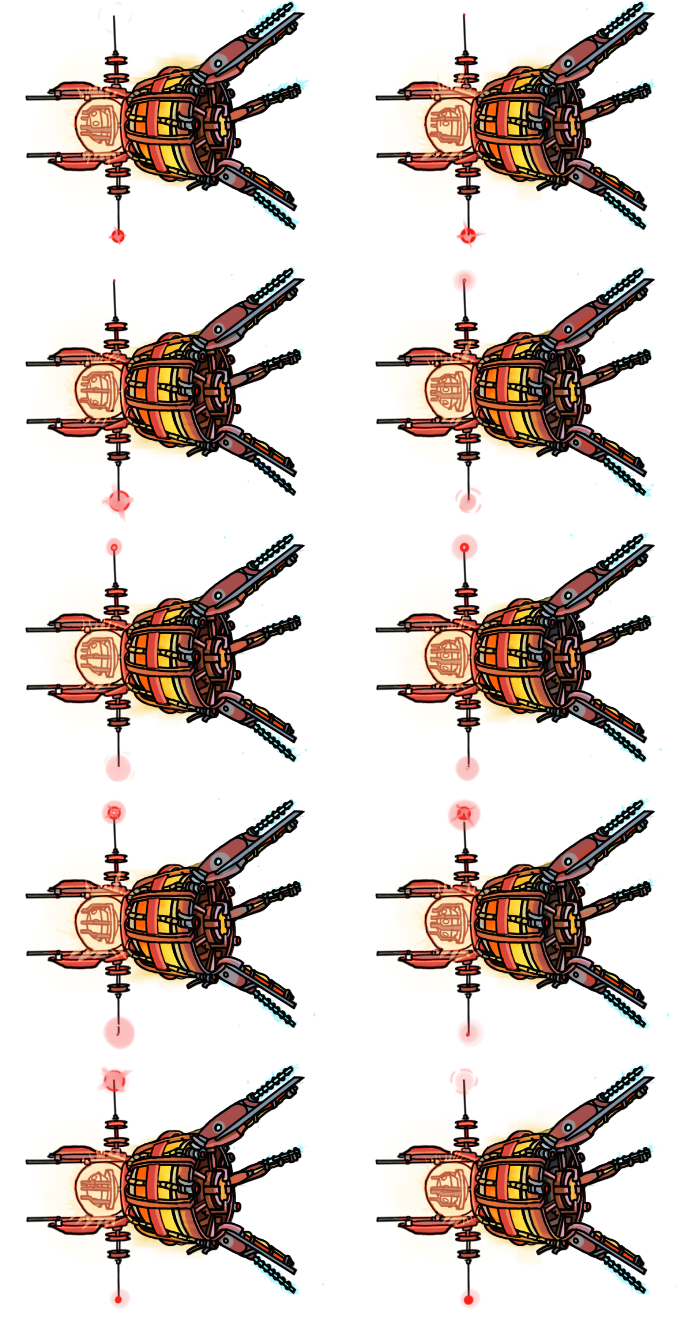
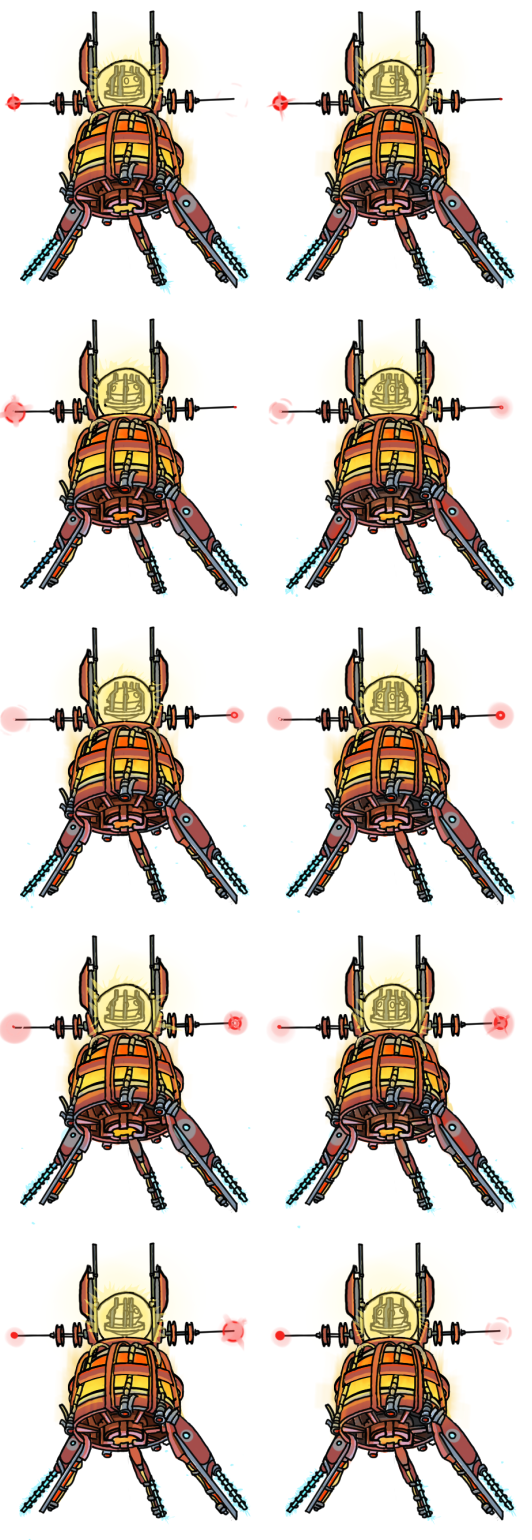
new drone

diff --git a/src/app/asteroid/asteroid-view/drone.ts b/src/app/asteroid/asteroid-view/drone.ts
@@ -2,8 +2,9 @@ import * as PIXI from 'pixi.js';
 import { getFramesFromSpriteSheet } from '../../loadAnimation';
 
 export class Drone {
-    drone: PIXI.Sprite;
     app: PIXI.Application;
+    public drone: PIXI.extras.AnimatedSprite;
+
     public laser: PIXI.extras.AnimatedSprite;
     laserFirstState: boolean;
     isBeginClick: boolean;
@@ -18,26 +19,34 @@ export class Drone {
     laserAnim_actif1: PIXI.extras.AnimatedSprite;
     laserAnim_actif2: PIXI.extras.AnimatedSprite;
     laserAnim_actif3: PIXI.extras.AnimatedSprite;
-    
+
     constructor(x: number , y: number, app: PIXI.Application) {
         this.app = app;
         this.isMining = true;
         this.delta = 0;
-        this.drone = PIXI.Sprite.fromImage('assets/drone.png');
-        this.drone.texture.baseTexture.mipmap = true;
+
+        // Drone 
+        this.drone = new PIXI.extras.AnimatedSprite(getFramesFromSpriteSheet(PIXI.loader.resources['drone1'].texture, 266, 308));
+        this.drone.gotoAndPlay(0);
+        this.drone.scale.set(x + 0.15, y + 0.15);
+        this.drone.loop = true;
         this.drone.anchor.set(0.5);
-        this.drone.scale.set(x, y);
+        this.drone.animationSpeed = 0.35;
+        this.drone.visible = true;
 
         this.drone.x = this.app.renderer.width / 2;
         this.drone.y = this.app.renderer.height / 2 - 150;
-        this.app.stage.addChild(this.drone);
 
         this.xBaseDrone = this.drone.x;
         this.yBaseDrone = this.drone.y;
 
+        this.app.stage.addChild(this.drone);
+
+        // LaserAnim 
         this.laserAnim = new PIXI.extras.AnimatedSprite(getFramesFromSpriteSheet(PIXI.loader.resources['laser'].texture, 946, 964));
         this.laserAnim.gotoAndPlay(0);
-        this.laserAnim.anchor.set(0.5, 0.04);
+        this.laserAnim.scale.set(0.60, 0.60);
+        this.laserAnim.anchor.set(0.54, -0.08);
         this.laserAnim.animationSpeed = 0.35;
         this.laserAnim.visible = true;
 
@@ -91,9 +100,10 @@ export class Drone {
         this.laserAnim_actif1 = new PIXI.extras.AnimatedSprite(getFramesFromSpriteSheet(PIXI.loader.resources['laserMinage1'].texture,
          946, 946));
         this.laserAnim_actif1.gotoAndPlay(0);
-        this.laserAnim_actif1.anchor.set(0.5, 0.04);
+        this.laserAnim_actif1.anchor.set(0.53, -0.09);
         this.laserAnim_actif1.animationSpeed = 0.30;
         this.laserAnim_actif1.position.set(3000, 3000);
+        this.laserAnim_actif1.scale.set(0.60, 0.60);
 
         this.laserAnim_actif1.visible = true;
         this.laserAnim_actif1.loop = false;
@@ -103,8 +113,9 @@ export class Drone {
         this.laserAnim_actif2 = new PIXI.extras.AnimatedSprite(getFramesFromSpriteSheet(PIXI.loader.resources['laserMinage2'].texture,
         946, 946));
         this.laserAnim_actif2.gotoAndPlay(0);
-        this.laserAnim_actif2.anchor.set(0.5, 0.04);
+        this.laserAnim_actif2.anchor.set(0.53, -0.09);
         this.laserAnim_actif2.position.set(3000, 3000);
+        this.laserAnim_actif2.scale.set(0.60, 0.60);
         this.laserAnim_actif2.animationSpeed = 0.35;
         this.laserAnim_actif2.visible = true;
 
@@ -113,7 +124,8 @@ export class Drone {
         this.laserAnim_actif3 = new PIXI.extras.AnimatedSprite(getFramesFromSpriteSheet(PIXI.loader.resources['laserMinage3'].texture,
         946, 946));
         this.laserAnim_actif3.gotoAndPlay(0);
-        this.laserAnim_actif3.anchor.set(0.5, 0.04);
+        this.laserAnim_actif3.anchor.set(0.53, -0.09);
+        this.laserAnim_actif3.scale.set(0.60, 0.60);
         this.laserAnim_actif3.animationSpeed = 0.25;
         this.laserAnim_actif3.position.set(3000, 3000);
         this.laserAnim_actif3.visible = true;
@@ -155,5 +167,14 @@ export class Drone {
         }
     }
 
+
+    changeSpriteDrone(lvl: number) {
+        const num = lvl <= 10 ? 1 : lvl <= 25 ? 2 : 3;
+        const temp = getFramesFromSpriteSheet(PIXI.loader.resources['drone' + num].texture, 266, 308);
+
+        for (let i = 0; i < this.drone.textures.length; i++) {
+            this.drone.textures[i] = temp[i];
+        }
+    }
 
 }

diff --git a/src/app/asteroid/asteroid-view/asteroid-view.component.ts b/src/app/asteroid/asteroid-view/asteroid-view.component.ts
@@ -10,8 +10,9 @@ import { OreInfoService } from '../ore-info-view/ore-info.service';
 import { Asteroid } from './asteroid';
 import { ParticleBase } from '../../shared/pixiVisual/particleBase';
 import { User } from '../../shared/user/user';
-import { UpgradeType } from '../../ship/upgrade-class/upgrade';
+import { UpgradeType, Upgrade } from '../../ship/upgrade-class/upgrade';
 import { getFramesFromSpriteSheet } from '../../loadAnimation';
+import { UpgradeLvls } from '../../ship/upgrade-list/upgrade-list.component';
 
 
 export enum KEY_CODE {
@@ -128,6 +129,7 @@ export class AsteroidViewComponent implements AfterViewInit {
       });
     }*/
 
+    this.drone.changeSpriteDrone(this.userS.currentUser.upgrades[UpgradeType.mineRate].lvl);
 
     this.asteroidSprite.eventOk = this.userS.currentUser.event;
     this.asteroidSprite.activEvent();
@@ -169,6 +171,10 @@ export class AsteroidViewComponent implements AfterViewInit {
       this.asteroidSprite.eventOk = user.event;
       this.asteroidSprite.activEvent();
       this.clickCapsule();
+    });
+
+    this.userS.upgradeSubject.subscribe((user: User) => {
+      this.drone.changeSpriteDrone(user.upgrades[UpgradeType.mineRate].lvl);
     });
 
     this.userS.frenzySubjectState.subscribe((FrenzyState: boolean) => {

diff --git a/src/app/loadAnimation.ts b/src/app/loadAnimation.ts
@@ -82,6 +82,10 @@ export class LoadAnimation {
             this.addKeySpriteName('bulle' + i, './assets/capsule/bulle_anim' + i + '.png');
         }
 
+        for (let i = 1; i < 4; i++) {
+            this.addKeySpriteName('drone' + i, './assets/drone' + i + '.png');
+        }
+
         this.addKeySpriteName('explosionBulle', './assets/capsule/explosion_spritesheet.png');
 
         this.addKeySpriteName('Boum', './assets/Boum.png');
